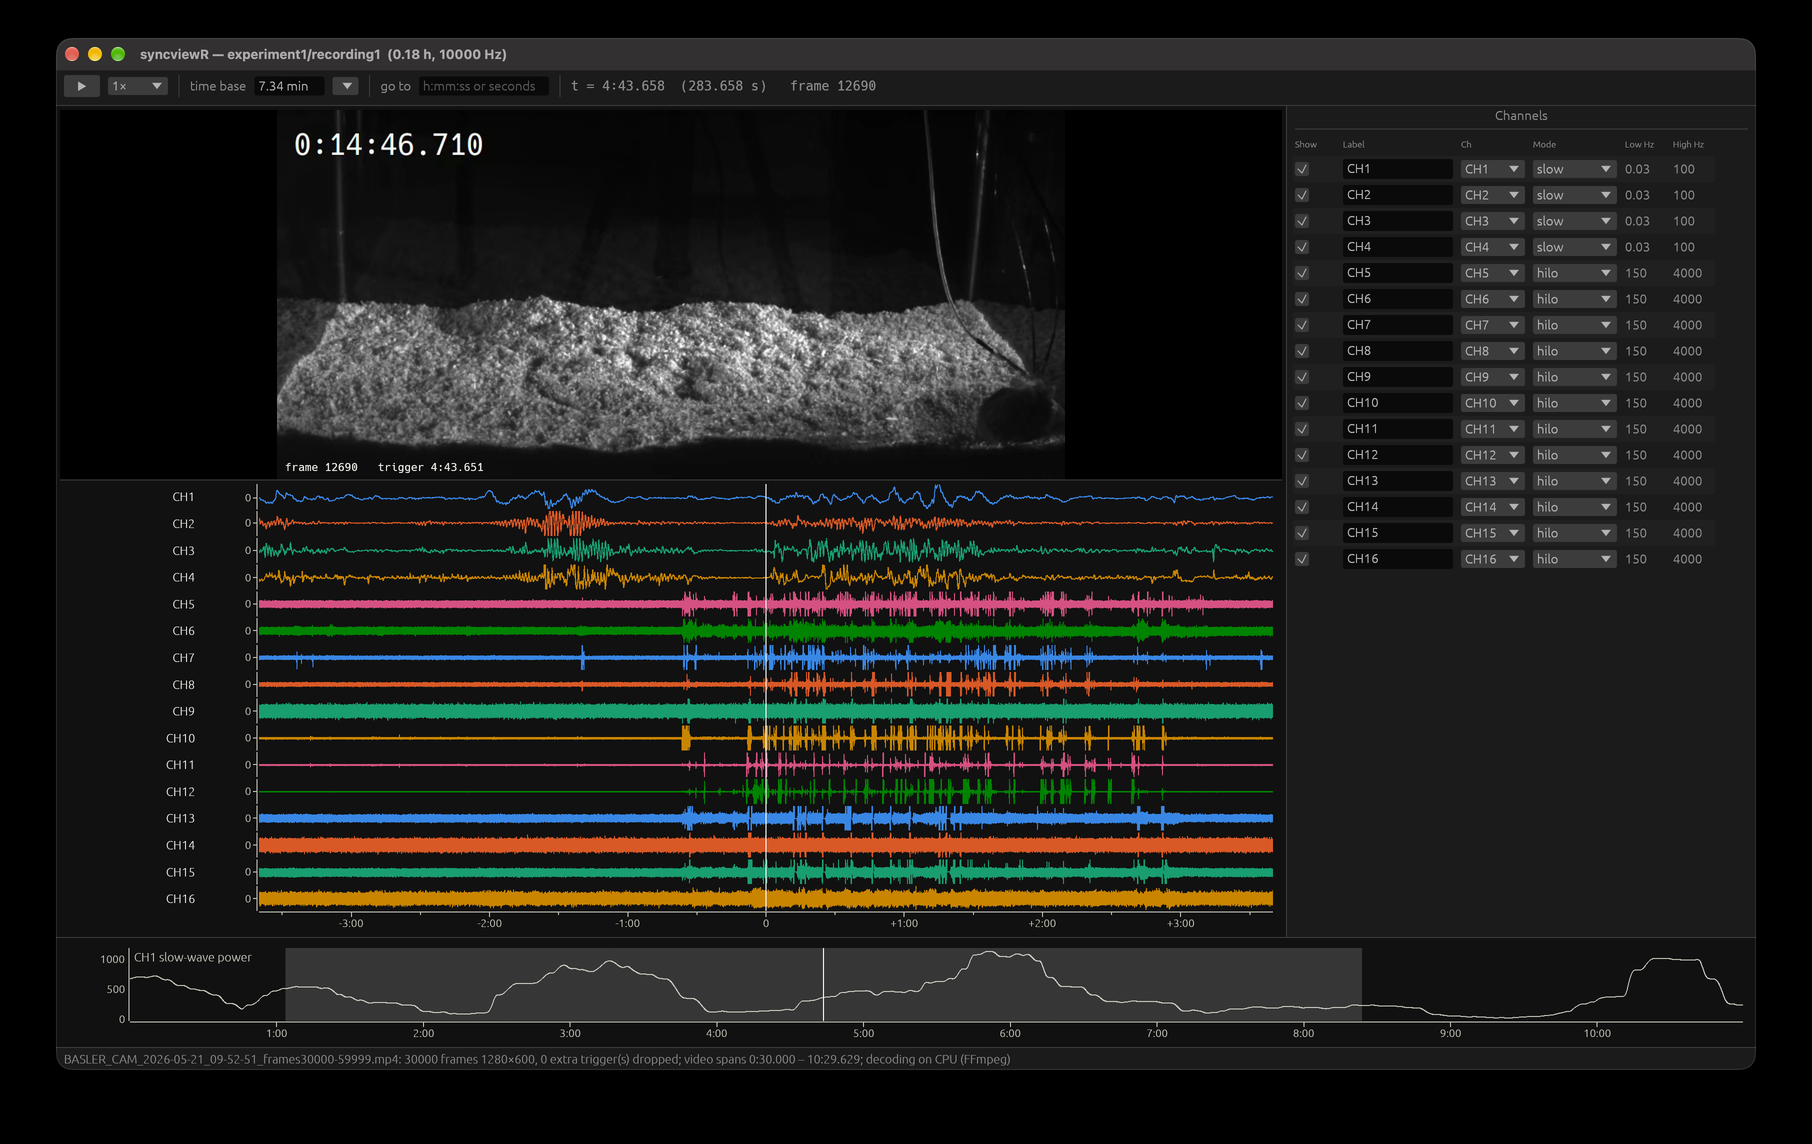
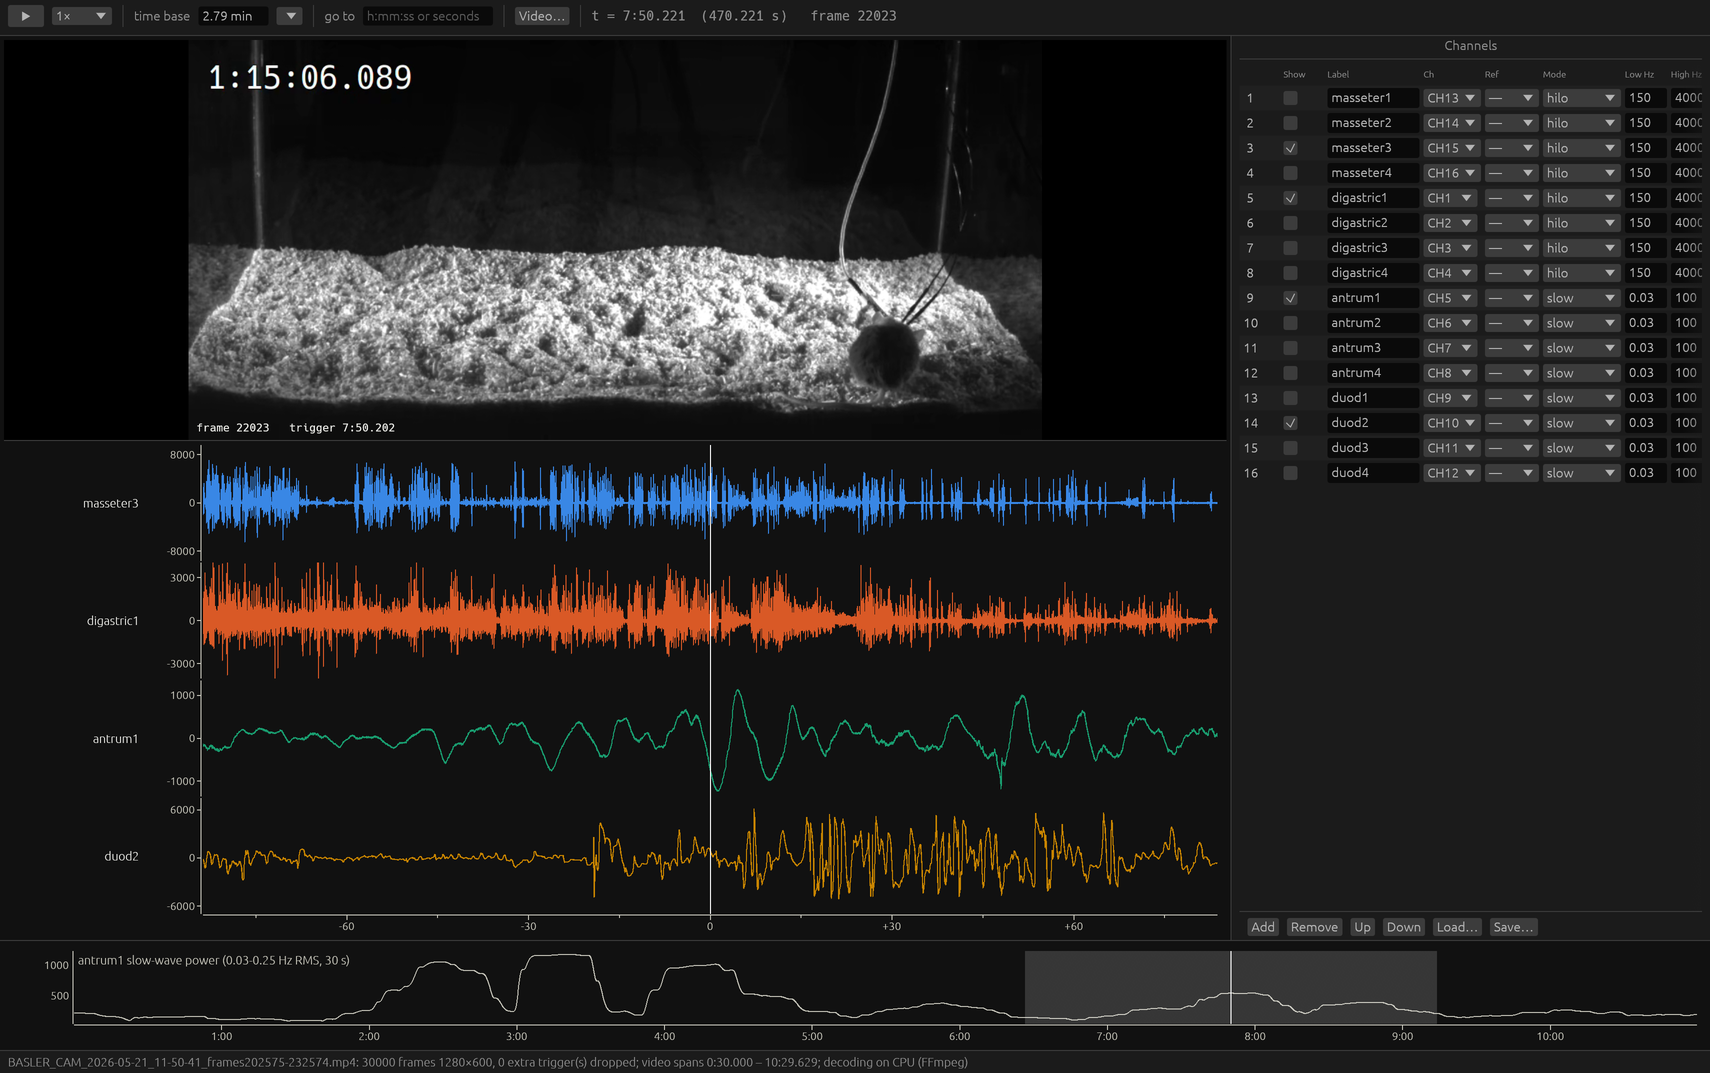
README: new macOS screenshot

diff --git a/README.md b/README.md
@@ -5,8 +5,12 @@ side by side with a behaviour video, frame-locked to the camera trigger. Built w
 [egui](https://github.com/emilk/egui)/eframe for the interface, [wgpu](https://wgpu.rs) (Vulkan,
 Metal, DirectX) for drawing the traces, and FFmpeg (`ffmpeg-next`) for video.
 
-![syncviewR on macOS: video frame-locked to 16 channels of slow-wave and EMG traces, channel table, and
-whole-session overview](docs/screenshot-macos.png)
+![syncviewR on macOS: video frame-locked to masseter and digastric EMG and antrum and duodenum slow
+waves, with the channel table and a whole-session slow-wave power overview](docs/screenshot-macos.png)
+
+*syncviewR on macOS: 4 of 16 channels of a 10-minute excerpt (masseter and digastric EMG, antrum and
+duodenum slow waves) with the antrum's slow-wave power across the excerpt (bottom; the shaded box is
+the current view).*
 
 MIT-licensed (see `LICENSE`). Written mostly by an AI model; see [Provenance](#provenance).
 
